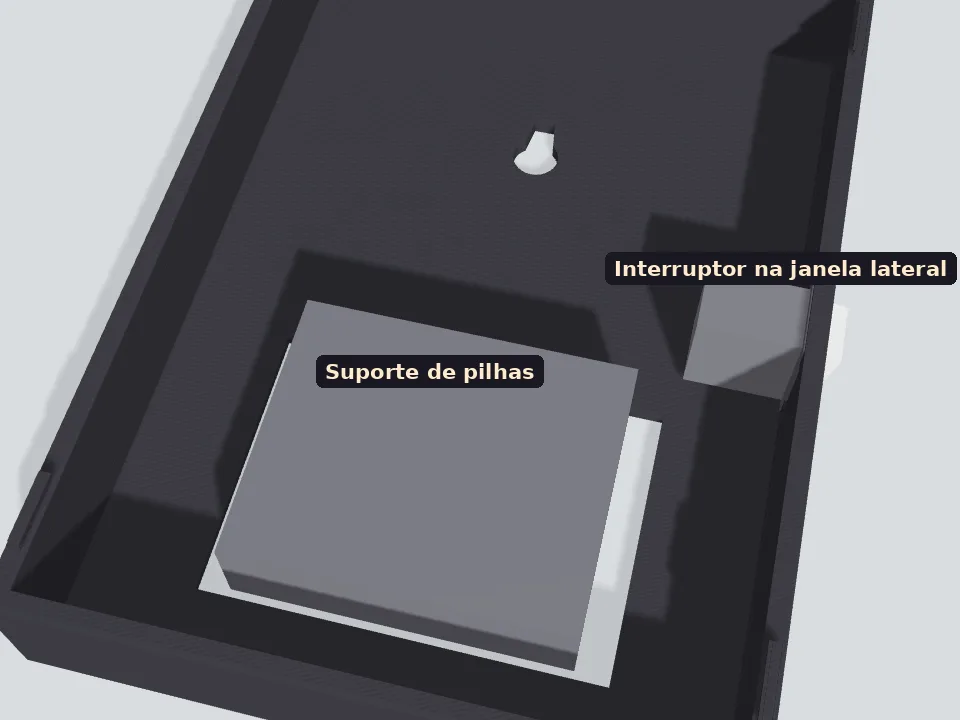
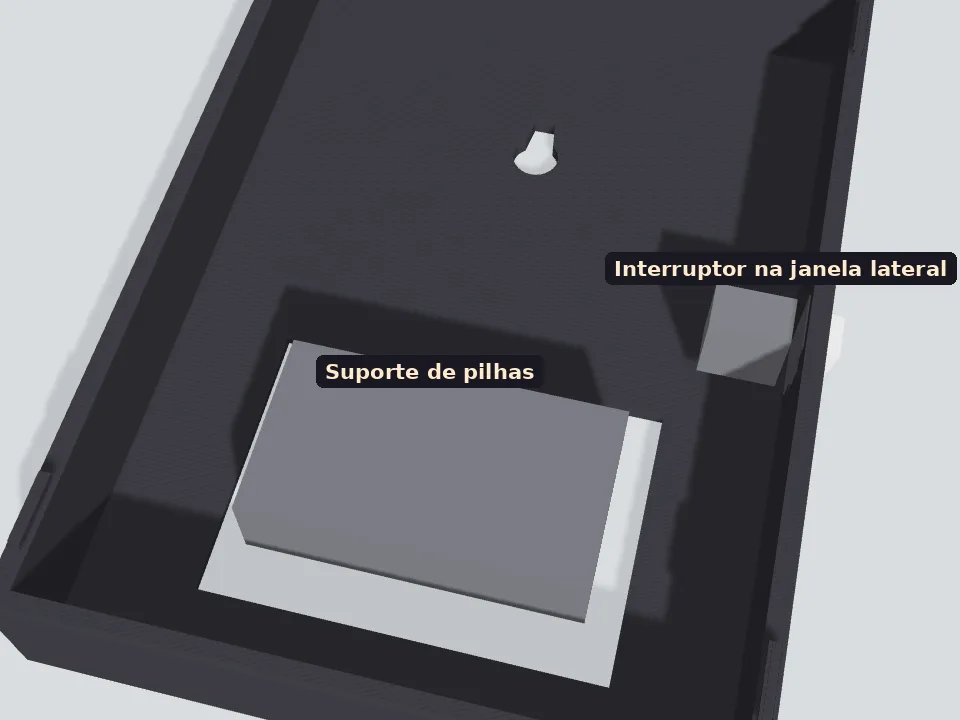
Ajusta interruptor e pilhas às peças vendidas no Brasil
Claude-Session: https://claude.ai/code/session_01BfCPvJUAUup3KQNkHvbudz

diff --git a/src/manual.js b/src/manual.js
@@ -10,7 +10,7 @@ const Manual = (() => {
   const ART = {
     print: svg(r(30, 130, 260, 10, K) + r(46, 104, 74, 26) + t(83, 121, 'caixa') + r(132, 120, 60, 10) + t(162, 116, 'tampo') + r(204, 124, 70, 6, B) + t(239, 116, 'painéis') + g('a-dn', l(160, 20, 160, 56, D, 8) + `<path d="M150 56h20l-10 14z" fill="${Y}"/>`) + t(160, 158, 'peças apoiadas na mesa, sem suporte')),
     clean: svg(r(40, 70, 240, 44) + `<path d="M70 70l14 -12 14 12 16 -20 18 20 26 -16 16 16 22 -14 20 14" fill="${B}" stroke="${K}"/>` + g('a-rt', r(150, 40, 66, 12, D, D) + l(216, 46, 262, 28, D, 6)) + t(160, 140, 'lixe bordas e limpe os fiapos dos recortes')),
-    wire: svg(`<circle cx="42" cy="86" r="0"/>` + r(16, 68, 58, 36, '#2d3a4a', W) + t(45, 90, 'pilhas', E) + r(104, 72, 42, 28) + t(125, 90, 'chave', E) + r(176, 78, 44, 16, '#c9a56b', '#c9a56b') + t(198, 90, '10 Ω', '#2b1a05') + `<circle cx="280" cy="86" r="16" fill="${Y}" class="a-pulse"/>` + t(280, 90, 'LED', '#2b1a05') + l(74, 86, 104, 86, RD, 2.5, 'class="a-flow"') + l(146, 86, 176, 86, RD, 2.5, 'class="a-flow"') + l(220, 86, 264, 86, RD, 2.5, 'class="a-flow"') + `<path d="M280 102v30H45v-28" fill="none" stroke="${D}" stroke-width="2.5"/>` + t(165, 148, 'preto: volta para o − das pilhas') + t(165, 42, 'vermelho: + das pilhas', RD) + t(265, 62, '+', RD) + t(296, 62, '−')),
+    wire: svg(`<circle cx="42" cy="86" r="0"/>` + r(16, 68, 58, 36, '#2d3a4a', W) + t(45, 90, 'pilhas', E) + r(104, 72, 42, 28) + t(125, 90, 'chave', E) + `<circle cx="280" cy="86" r="16" fill="${Y}" class="a-pulse"/>` + t(280, 90, 'LED', '#2b1a05') + l(74, 86, 104, 86, RD, 2.5, 'class="a-flow"') + l(146, 86, 264, 86, RD, 2.5, 'class="a-flow"') + `<path d="M280 102v30H45v-28" fill="none" stroke="${D}" stroke-width="2.5"/>` + t(165, 148, 'preto: volta para o − das pilhas') + t(165, 42, 'vermelho: + das pilhas', RD) + t(265, 62, '+', RD) + t(296, 62, '−')),
     cap: svg(r(40, 90, 200, 16, 'none', W) + t(130, 128, 'tubo') + l(60, 96, 236, 96, RD, 1.2) + l(60, 100, 236, 100, D, 1.2) + g('a-lf', r(246, 82, 8, 32, E, E) + r(232, 89, 16, 18, E, E) + r(226, 90, 5, 16, Y, Y)) + t(250, 66, 'suporte + LED') + `<path d="M222 98l-30 -14v28z" fill="${Y}" opacity=".3" class="a-pulse"/>` + t(205, 140, 'LED virado para dentro')),
     box: svg(r(90, 26, 140, 120) + r(114, 92, 92, 44, '#191821') + t(160, 118, 'abertura das pilhas') + `<circle cx="160" cy="52" r="6" fill="#191821" stroke="${K}"/>` + t(160, 38, 'gancho') + g('a-lf', r(226, 72, 30, 20, Y, Y) + t(241, 86, 'chave', '#2b1a05')) + t(160, 162, 'caixa vista por trás')),
     close: svg(r(70, 104, 180, 34) + t(160, 126, 'caixa') + g('a-dn', r(70, 74, 180, 8, B) + t(160, 66, 'tampo')) + [86, 234].map(x => g('a-dn', '') + `<rect x="${x - 3}" y="110" width="6" height="26" fill="${K}"/>`).join('') + g('a-up', l(86, 136, 86, 156, D, 3) + l(234, 136, 234, 156, D, 3)) + t(160, 30, 'parafusos M3 × 20 entram por trás')),
@@ -24,7 +24,7 @@ const Manual = (() => {
   const figure = (art, title) => IMG[art] ? pic(IMG[art] + '.webp', title) : ART[art];
   const CHECK = [
     ['Para imprimir', [['Filamento PLA preto opaco', 'caixa, tampo, painéis, haste e tampinha', 'FIL g no total'], ['Filamento PLA claro', 'só se usar estampa do fundo']]],
-    ['Eletrônica', [['LED branco quente de 8 mm tipo chapéu de palha', 'corpo de 8 mm, aba de até 9 mm, ângulo aberto'], ['Resistor de 47 Ω, 1/4 W', 'vale para LED de cerca de 3,2 V e 30 mA; confira no anúncio'], ['Interruptor de balancim KCD1-11', 'janela de 19 × 13 mm'], ['Suporte para 3 pilhas AA', 'até 70 × 50 × 20 mm, com fios'], ['3 pilhas AA'], ['Fio fino flexível, vermelho e preto', '26 AWG ou mais fino, 30 cm de cada'], ['Termorretrátil fino', 'para isolar as emendas']]],
+    ['Eletrônica', [['LED branco de 8 mm tipo chapéu de palha', '3 V, corpo de 8 mm, aba de até 9 mm'], ['Mini chave gangorra KCD1-11', 'recorte de 15,5 × 9 mm'], ['Suporte para 2 pilhas AA', 'até 70 × 50 × 20 mm, com fios'], ['2 pilhas AA'], ['Fio fino flexível, vermelho e preto', '26 AWG ou mais fino, 30 cm de cada'], ['Termorretrátil fino', 'para isolar as emendas']]],
     ['Da sua casa', [['Tira de garrafa PET transparente', '15 × 27 mm: vira o anel que deixa a luz passar'], ['Fita transparente', 'fecha o anel'], ['Fita dupla-face', 'prende o suporte das pilhas'], ['1 parafuso e bucha de parede', 'cabeça até 8 mm, haste até 3,5 mm'], ['Cola de cianoacrilato', 'só se um encaixe ficar folgado']]],
     ['Ferramentas', [['Ferro de solda e estanho'], ['Alicate de corte e desencapador'], ['Multímetro', 'para conferir a ligação antes de fechar'], ['Isqueiro ou soprador', 'para o termorretrátil'], ['Tesoura', 'para cortar a tira de PET'], ['Estilete e lixa 220', 'para ajustar encaixes'], ['Furadeira', 'só para o parafuso de parede'], ['Óculos de proteção']]]
   ];
@@ -32,8 +32,8 @@ const Manual = (() => {
     ['Imprima primeiro um teste', 'print', ['Comece pela caixa <b>Pequena</b>: gasta menos e valida os encaixes na sua impressora.', 'Use camada de 0,2 mm, bico de 0,4 mm e sem raft.', 'Caixa, tampo, painéis e portinhola saem sem suporte.', 'Imprima a haste em pé, com brim, para ela não tombar.'], 'Se um encaixe ficar justo demais, lixe. Se ficar folgado, use uma gota de cola. Me conte a folga real: ajusto no projeto.'],
     ['Limpe as peças', 'clean', ['Tire fiapos dos recortes com o estilete.', 'Lixe as linguetas dos painéis e as fendas do tampo.', 'Teste todos os encaixes a seco.'], 'Os painéis têm partes finas. Segure pela faixa lisa.'],
     ['Prepare o LED', 'cap', ['Corte uma tira de PET de 15 × 27 mm e enrole formando um anel. Feche com fita transparente.', 'Solde um fio em cada perna do LED, marcando o +. O + é a perna mais longa.', 'Tire 15 mm da capa dos fios logo abaixo do LED e estanhe esse trecho: fio fino faz menos sombra.', 'Passe os fios pela haste de cima para baixo.', 'Encaixe o anel na ponta da haste e apoie o LED nele, com a parte arredondada para baixo.'], 'Com a luminária montada, o LED fica virado para a parede. Isole as pernas para não encostarem.'],
-    ['Faça a ligação elétrica', 'wire', ['Siga a ordem: <b>+ das pilhas → interruptor → resistor → + do LED</b>.', 'Ligue o − do LED de volta ao − das pilhas.', 'Isole cada emenda com termorretrátil.', 'Teste com pilhas antes de fechar.'], 'O LED tem polaridade: invertido, ele não acende. Confira com o multímetro.'],
-    ['Instale interruptor e pilhas', 'box', ['Encaixe o interruptor na janela lateral da caixa.', 'Cole o suporte de pilhas na parte de baixo do tampo, com fita dupla-face, alinhado com a abertura de trás.', 'Passe os fios da haste pelo furo do tampo.', 'Se o interruptor não travar na parede grossa, use uma gota de cola.'], ''],
+    ['Faça a ligação elétrica', 'wire', ['Siga a ordem: <b>+ das pilhas → interruptor → + do LED</b>.', 'Ligue o − do LED de volta ao − das pilhas.', 'Com 2 pilhas e LED de 3 V, não é preciso resistor.', 'Isole cada emenda com termorretrátil.', 'Teste com pilhas antes de fechar.'], 'O LED tem polaridade: invertido, ele não acende. Confira com o multímetro.'],
+    ['Instale interruptor e pilhas', 'box', ['Encaixe o interruptor na janela lateral da caixa.', 'Cole o suporte de pilhas na parte de baixo do tampo, com fita dupla-face, alinhado com a abertura de trás.', 'Passe os fios da haste pelo furo do tampo.', 'A parede tem 3,5 mm: se o interruptor não travar, use uma gota de cola.'], ''],
     ['Trave o tampo na caixa', 'close', ['Coloque o tampo sobre a caixa, alinhando as quatro presilhas.', 'Pressione cada lado até ouvir o clique.', 'Para abrir, empurre as presilhas com uma chave fina.'], 'Não force: se não entrar, lixe a presilha.'],
     ['Encaixe a estampa e a haste', 'art', ['Se tiver estampa, apoie no tampo com o topo da imagem para o lado do gancho.', 'Deslize a haste no anel central do tampo.'], 'O anel e a tampinha fazem uma pequena sombra no centro da estampa.'],
     ['Encaixe os painéis', 'wall', ['Cada painel tem linguetas em posições diferentes: ele só entra nas fendas certas.', 'A quantidade de furinhos na faixa lisa numera o painel: 1 superior, 2 esquerdo, 3 inferior e 4 direito.', 'Pressione as linguetas até o painel assentar no tampo.', 'Onde dois recortes se encontram no canto, passe uma gota de cola: isso prende pedaços da sombra.'], 'Se o desenho tiver pedaços presos só pelo canto, a cola é necessária.'],

diff --git a/tools/render-scene.js b/tools/render-scene.js
@@ -14,8 +14,8 @@ window.Shots = (() => {
   const led = () => { const g = new THREE.Group(); const m = new THREE.MeshPhysicalMaterial({ color: 0xfff6d8, roughness: .2, transparent: true, opacity: .75 }); const b = cyl(4, 6, m); b.rotation.x = Math.PI / 2; g.add(b); const r = cyl(4.5, 1, m); r.rotation.x = Math.PI / 2; r.position.z = 3; g.add(r); const d = new THREE.Mesh(new THREE.SphereGeometry(4, 20, 12), m); d.position.z = -3; g.add(d); for (const x of [-1.3, 1.3]) { const l = cyl(.3, 6, mat(0xc8c8cc, { metalness: .8 }), 8); l.rotation.x = Math.PI / 2; l.position.set(x, 0, 6); g.add(l); } return g; };
   const screw = (len, r0) => { const g = new THREE.Group(), m = mat(0x9aa0a8, { metalness: .9, roughness: .3 }); const s = cyl(r0, len, m, 14); g.add(s); const h = cyl(r0 * 1.8, r0 * 1.2, m, 18); h.position.y = len / 2; g.add(h); return g; };
   const wire = (pts, c) => { const v = pts.map(q => new THREE.Vector3(...q)); const m = new THREE.Mesh(new THREE.TubeGeometry(new THREE.CatmullRomCurve3(v), 80, .8, 8), mat(c)); m.castShadow = true; return m; };
-  const holder = () => { const g = new THREE.Group(); const b = block(58, 48, 16, mat(0x202024)); g.add(b); for (const y of [-15.5, 0, 15.5]) { const a = cyl(7, 50, mat(0x2d6b4f, { metalness: .2 }), 24); a.rotation.z = Math.PI / 2; a.position.set(0, y, 8); g.add(a); const c = cyl(7.05, 6, mat(0xc8c8cc, { metalness: .8 }), 24); c.rotation.z = Math.PI / 2; c.position.set(24, y, 8); g.add(c); } return g; };
-  const sw = () => { const g = new THREE.Group(); g.add(block(21, 15, 2.5, mat(0x18181b))); const k = block(14, 11, 4, mat(0xf2f2f2)); k.position.z = 2.5; k.rotation.y = .18; g.add(k); const q = block(18, 12, 18, mat(0x232327)); q.position.z = -10; g.add(q); return g; };
+  const holder = () => { const g = new THREE.Group(); const b = block(58, 32, 15, mat(0x202024)); g.add(b); for (const y of [-7.5, 7.5]) { const a = cyl(7, 50, mat(0x2d6b4f, { metalness: .2 }), 24); a.rotation.z = Math.PI / 2; a.position.set(0, y, 8); g.add(a); const c = cyl(7.05, 6, mat(0xc8c8cc, { metalness: .8 }), 24); c.rotation.z = Math.PI / 2; c.position.set(24, y, 8); g.add(c); } return g; };
+  const sw = () => { const g = new THREE.Group(); g.add(block(16.7, 10.5, 2.5, mat(0x18181b))); const k = block(12, 8, 4, mat(0xf2f2f2)); k.position.z = 2.5; k.rotation.y = .18; g.add(k); const q = block(15, 9, 14, mat(0x232327)); q.position.z = -10; g.add(q); return g; };
   const resistor = () => { const g = new THREE.Group(); const a = cyl(1.3, 10, mat(0xc7a26a)); a.rotation.z = Math.PI / 2; g.add(a); const b = cyl(.3, 26, mat(0xbbbbbb, { metalness: .8 })); b.rotation.z = Math.PI / 2; g.add(b); return g; };
   function pieces() { const P = st.panels, o = {};
     o.box = mesh(Sombra.boxTris(p)); o.plate = mesh(Sombra.plateTris(p), mat(0xe8e2d4), (x, y, z) => [x, y, z]);
@@ -57,7 +57,7 @@ window.Shots = (() => {
     externos() { const s = studio(), lb = [], add = (o, x, z, t, y = 6) => { o.position.set(x, y, z); s.add(o); lb.push([t, [x, y + 14, z]]); };
       const t = block(27, .4, 15, glass()); add(t, -130, -70, 'Tira de PET', 1);
       const h = holder(); h.rotation.x = -Math.PI / 2; add(h, 40, -80, 'Suporte de pilhas', 4);
-      const l = led(); l.rotation.x = Math.PI / 2; add(l, -160, 20, 'LED 1 W', 3); const a = sw(); a.rotation.x = -Math.PI / 2; add(a, -70, 20, 'Interruptor', 18); const e = resistor(); add(e, 10, 20, 'Resistor 10 Ω', 2);
+      const l = led(); l.rotation.x = Math.PI / 2; add(l, -160, 20, 'LED chapéu de palha', 3); const a = sw(); a.rotation.x = -Math.PI / 2; add(a, -70, 20, 'Interruptor', 18); 
       const m3 = screw(30, 1.7); m3.rotation.z = Math.PI / 2; add(m3, 110, 20, 'Parafuso de parede', 3);
       s.add(wire([[-170, 1, 90], [-120, 1, 70], [-60, 1, 100], [0, 1, 80]], 0xc0392b)); s.add(wire([[-170, 1, 100], [-120, 1, 80], [-60, 1, 110], [0, 1, 90]], 0x181818)); lb.push(['Fios', [-80, 16, 100]]);
       return snap(s, cam(-5, 250, 260, -5, 0, 10, 32), lb); },

diff --git a/src/core.js b/src/core.js
@@ -260,8 +260,8 @@ const Sombra = (() => {
     prism(t, [rect(2 * w, 2 * h), keyhole, cw(rect(HATCH[0], HATCH[1], 0, y))], 0, 1.5);
     prism(t, [rect(2 * w, 2 * h), keyhole, cw(rect(OPEN[0], OPEN[1], 0, y))], 1.5, F);
     const ring = [rect(2 * w, 2 * h), cw(rect(2 * i, 2 * j))];
-    const gapRight = [[-w, -h], [w, -h], [w, -9.5], [i, -9.5], [i, -j], [-i, -j], [-i, j], [i, j], [i, 9.5], [w, 9.5], [w, h], [-w, h]];
-    prism(t, ring, F, 7.5); prism(t, [gapRight], 7.5, 20.5); prism(t, ring, 20.5, T);
+    const gapRight = [[-w, -h], [w, -h], [w, -7.75], [i, -7.75], [i, -j], [-i, -j], [-i, j], [i, j], [i, 7.75], [w, 7.75], [w, h], [-w, h]];
+    prism(t, ring, F, 9.5); prism(t, [gapRight], 9.5, 18.5); prism(t, ring, 18.5, T);
     for (const s of [-1, 1]) for (const cyc of clipY(p)) {
       const x0 = i + 1, x1 = i + 2.4, a = s > 0 ? x0 : -x1, b = s > 0 ? x1 : -x0;
       prism(t, [rect(b - a, TAB_W, (a + b) / 2, cyc)], T, T + 2.7);
